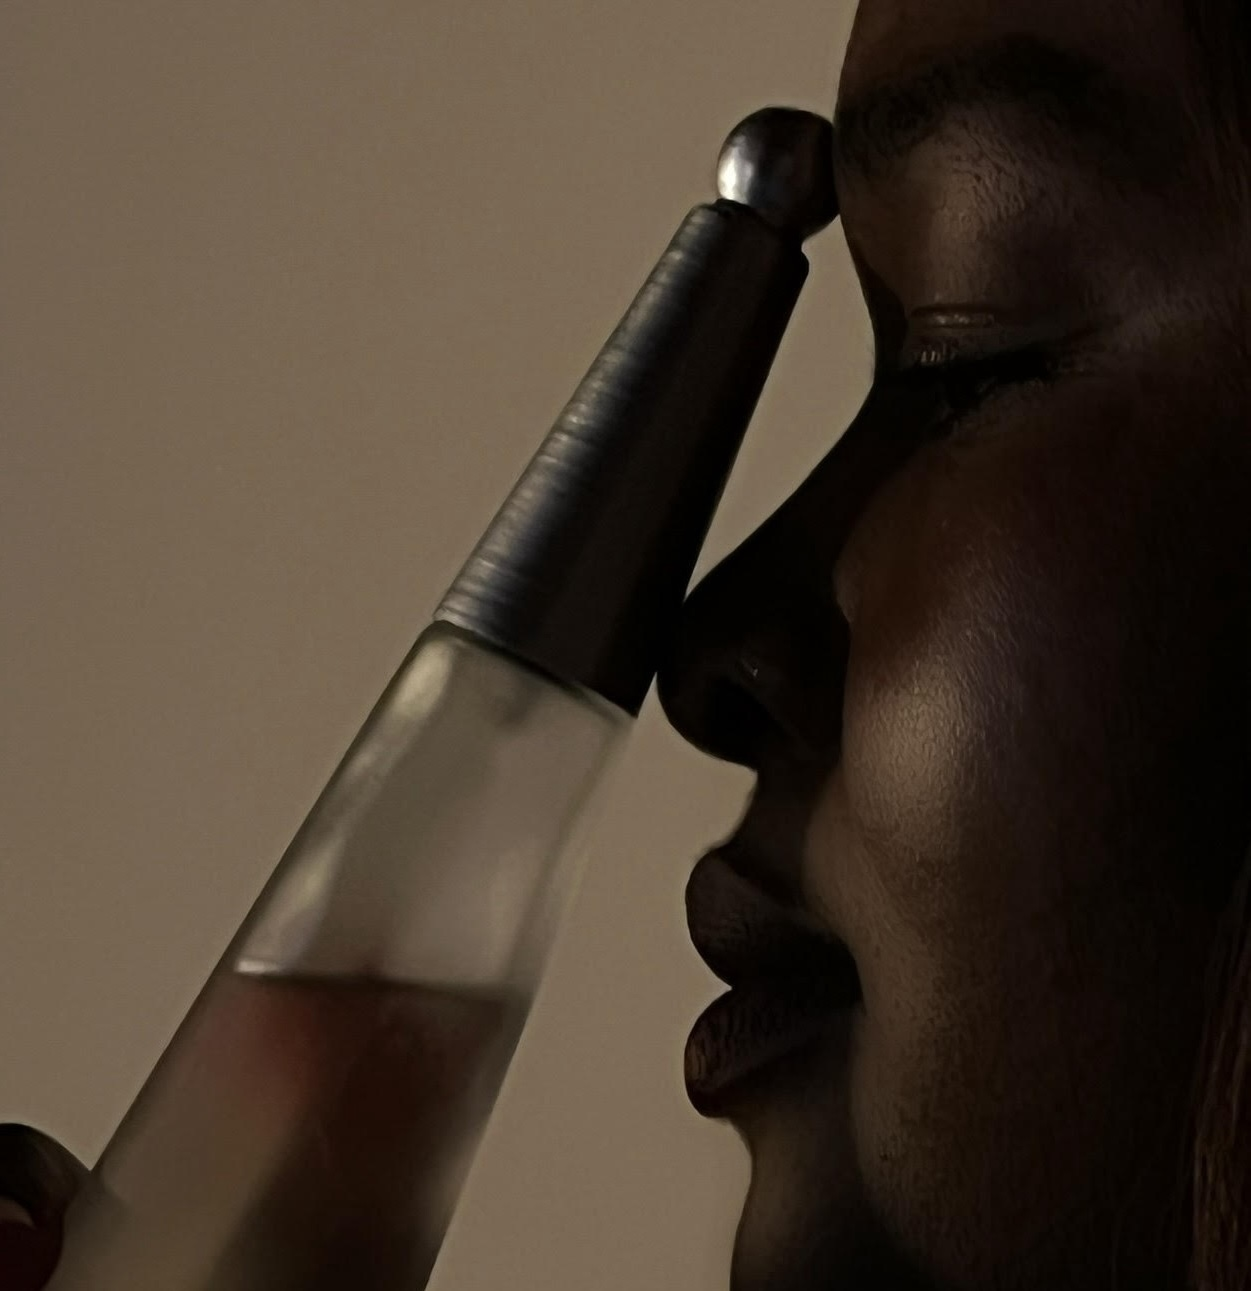
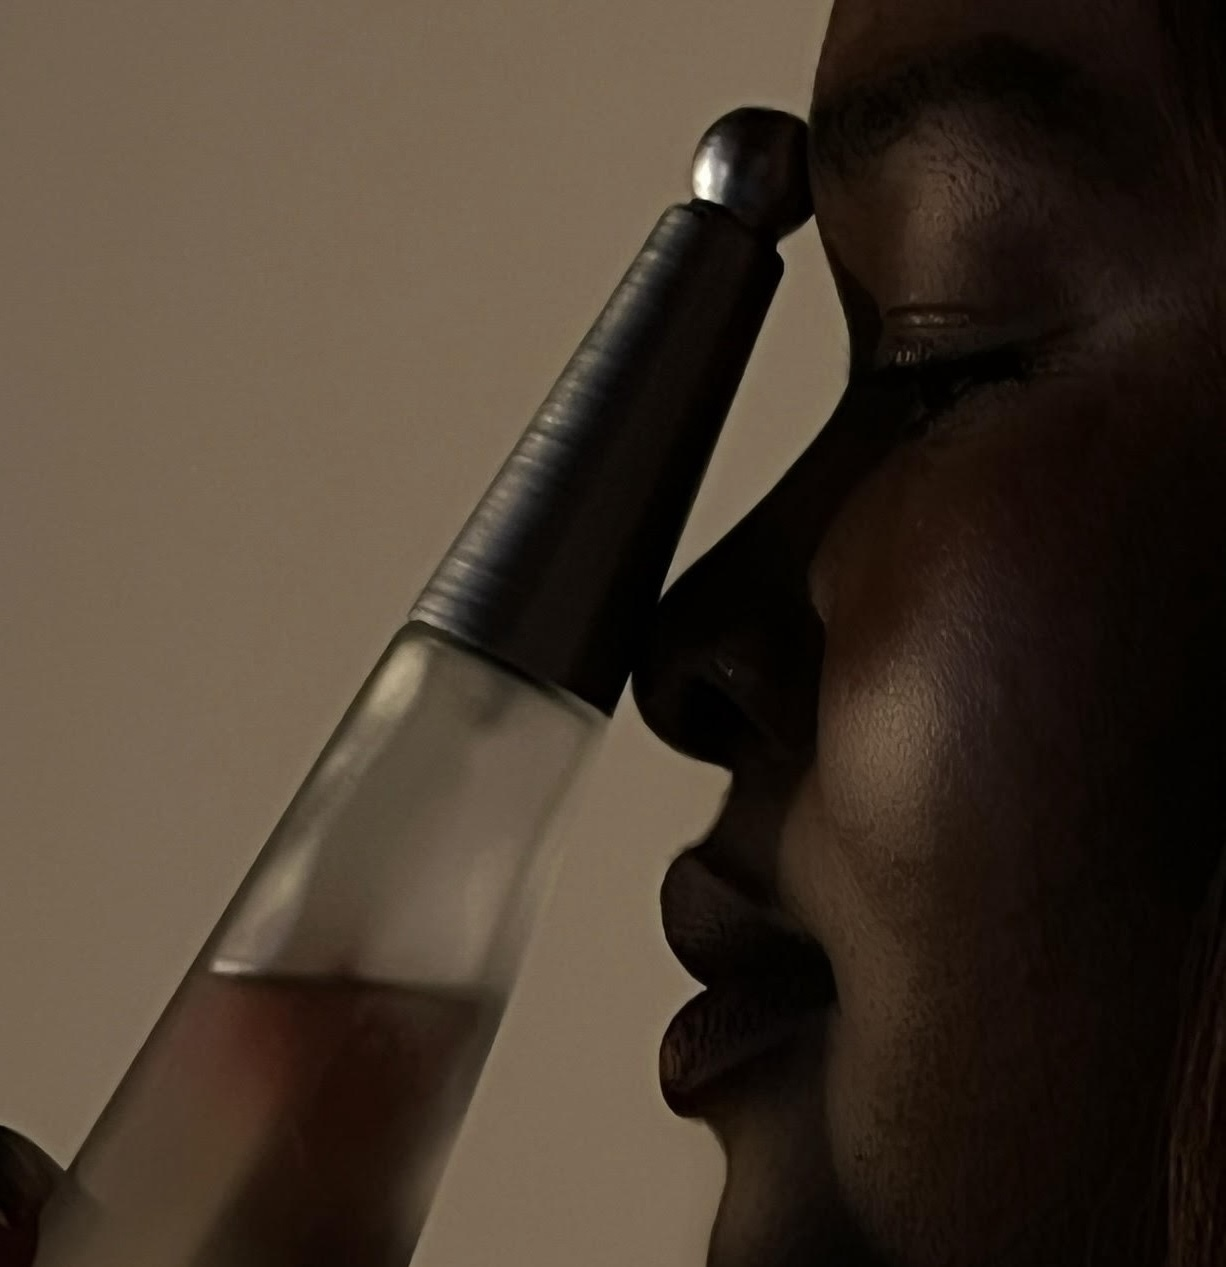
Email validation, domain typo detection, fast-click guard, per-section progress bars, spam folder note, client email in submit payload, client email in sonsultant notes.

diff --git a/quiz-app.js b/quiz-app.js
@@ -17,7 +17,64 @@ function setFrame(left, center, right) {
 }
 
 function introReady() {
-  return state.name.trim() && state.email.trim() && state.email.includes("@");
+  return state.name.trim() && /^[^\s@]+@[^\s@]+\.[^\s@]{2,}$/.test(state.email.trim());
+}
+
+const DOMAIN_TYPOS = {
+  // gmail
+  "gmial.com":"gmail.com", "gmai.com":"gmail.com", "gmal.com":"gmail.com",
+  "gamil.com":"gmail.com", "gnail.com":"gmail.com", "gmail.co":"gmail.com",
+  "gmail.cm":"gmail.com", "gmaill.com":"gmail.com", "gmali.com":"gmail.com",
+  "gmill.com":"gmail.com", "gmil.com":"gmail.com", "gmaul.com":"gmail.com",
+  "gmale.com":"gmail.com", "gemail.com":"gmail.com", "gmaik.com":"gmail.com",
+  "gmaio.com":"gmail.com", "gmaiil.com":"gmail.com", "gamial.com":"gmail.com",
+  "gimail.com":"gmail.com", "gmail.con":"gmail.com",
+  "gmail.om":"gmail.com", "gmail.vom":"gmail.com", "gmail.xom":"gmail.com",
+  "gmail.comm":"gmail.com", "gmaol.com":"gmail.com",
+  "gmqil.com":"gmail.com", "gmeil.com":"gmail.com",
+  // yahoo
+  "yahooo.com":"yahoo.com", "yaho.com":"yahoo.com", "yaoo.com":"yahoo.com",
+  "yahoo.co":"yahoo.com", "yhaoo.com":"yahoo.com", "yshoo.com":"yahoo.com",
+  "yahho.com":"yahoo.com", "yahpp.com":"yahoo.com", "yahpo.com":"yahoo.com",
+  "yahooo.com":"yahoo.com", "yhoo.com":"yahoo.com", "yahooi.com":"yahoo.com",
+  "yahoo.con":"yahoo.com", "yahoo.cm":"yahoo.com", "yahoo.om":"yahoo.com",
+  "yahoo.comm":"yahoo.com", "tahoo.com":"yahoo.com", "uahoo.com":"yahoo.com",
+  "yaboo.com":"yahoo.com", "yanoo.com":"yahoo.com", "yaho.com":"yahoo.com",
+  "yahhoo.com":"yahoo.com", "yahool.com":"yahoo.com",
+  // hotmail
+  "hotmal.com":"hotmail.com", "hotmial.com":"hotmail.com", "hotmai.com":"hotmail.com",
+  "hotmail.co":"hotmail.com", "hotamil.com":"hotmail.com", "hotmali.com":"hotmail.com",
+  "hotmaill.com":"hotmail.com", "hotmil.com":"hotmail.com", "hotmaol.com":"hotmail.com",
+  "hotmail.con":"hotmail.com", "hotmail.cm":"hotmail.com", "hotmale.com":"hotmail.com",
+  "hotmsil.com":"hotmail.com", "jotmail.com":"hotmail.com", "hitmail.com":"hotmail.com",
+  "hotail.com":"hotmail.com", "hotmaik.com":"hotmail.com",
+  // outlook
+  "outlok.com":"outlook.com", "outloo.com":"outlook.com", "outlool.com":"outlook.com",
+  "outlook.co":"outlook.com", "outllook.com":"outlook.com", "outlokk.com":"outlook.com",
+  "outloook.com":"outlook.com", "ourlook.com":"outlook.com", "oitlook.com":"outlook.com",
+  "outlook.con":"outlook.com", "outlook.cm":"outlook.com", "putlook.com":"outlook.com",
+  "outlookk.com":"outlook.com", "outllok.com":"outlook.com", "outluk.com":"outlook.com",
+  // icloud
+  "iclould.com":"icloud.com", "icloud.co":"icloud.com", "iclod.com":"icloud.com",
+  "icoud.com":"icloud.com", "icload.com":"icloud.com", "iclould.com":"icloud.com",
+  "icloud.con":"icloud.com", "icloud.cm":"icloud.com", "iclould.com":"icloud.com",
+  "iclud.com":"icloud.com", "icloudd.com":"icloud.com", "icolud.com":"icloud.com",
+  // aol
+  "aol.co":"aol.com", "aol.con":"aol.com", "aol.cm":"aol.com",
+  "aol.comm":"aol.com", "ail.com":"aol.com", "apl.com":"aol.com",
+  // protonmail
+  "protonmal.com":"protonmail.com", "protonmial.com":"protonmail.com",
+  "protonmail.con":"protonmail.com", "protonmail.co":"protonmail.com",
+  // common TLD typos for any domain
+  "me.co":"me.com",
+};
+
+function checkEmailTypo(email) {
+  const domain = email.trim().split("@")[1];
+  if (!domain) return null;
+  const suggestion = DOMAIN_TYPOS[domain.toLowerCase()];
+  if (suggestion) return email.trim().split("@")[0] + "@" + suggestion;
+  return null;
 }
 
 function render(soft) {
@@ -66,12 +123,28 @@ function renderIntro(el) {
     <label class="field-label" for="emailInput" style="margin-top:16px;">Your email</label>
     <input class="text-input" type="email" placeholder="[email redacted]" id="emailInput" value="${esc(state.email)}">
     <p class="email-note">We'll send your scent profile results here.</p>
+    <div id="emailHint"></div>
     <div class="nav">
       <span></span>
       <button class="btn-primary" id="startBtn" ${introReady() ? "" : "disabled"}>Begin</button>
     </div>
   `;
-  const updateStart = () => { $("startBtn").disabled = !introReady(); };
+  const updateStart = () => {
+    $("startBtn").disabled = !introReady();
+    const hint = $("emailHint");
+    const suggestion = checkEmailTypo(state.email);
+    if (suggestion) {
+      hint.innerHTML = '<p class="email-typo">Did you mean <a href="#" id="fixEmail">' + esc(suggestion) + '</a>?</p>';
+      $("fixEmail").addEventListener("click", e => {
+        e.preventDefault();
+        state.email = suggestion;
+        $("emailInput").value = suggestion;
+        updateStart();
+      });
+    } else {
+      hint.innerHTML = '';
+    }
+  };
   $("nameInput").addEventListener("input", e => { state.name = e.target.value; updateStart(); });
   $("emailInput").addEventListener("input", e => { state.email = e.target.value; updateStart(); });
   $("emailInput").addEventListener("keydown", e => {
@@ -85,11 +158,14 @@ function renderIntro(el) {
 
 function optionList(opts, getSel, onPick) {
   const box = $("options");
+  let picked = false;
   opts.forEach(opt => {
     const btn = document.createElement("button");
     btn.className = "option-btn" + (getSel() === opt ? " selected" : "");
     btn.innerHTML = `<span class="mk"></span>${esc(opt)}`;
     btn.addEventListener("click", () => {
+      if (picked) return;
+      picked = true;
       box.querySelectorAll(".option-btn").forEach(b => b.classList.remove("selected"));
       btn.classList.add("selected");
       setTimeout(() => onPick(opt), 320);
@@ -101,7 +177,7 @@ function optionList(opts, getSel, onPick) {
 function renderVibes(el) {
   const q = VIBES_QUESTIONS[state.idx];
   const pct = ((state.idx + 1) / VIBES_QUESTIONS.length) * 100;
-  setFrame("Top Note", "Part I · Vibes", `${String(state.idx+1).padStart(2,"0")} / ${String(VIBES_QUESTIONS.length).padStart(2,"0")}`);
+  setFrame("Top Note", "Part I · Vibes", "");
   el.innerHTML = `
     <div class="progress-head">
       <span class="progress-text">Vibes Diagnostic</span>
@@ -147,8 +223,7 @@ function renderInterstitial(el) {
 function renderScent(el) {
   const q = SCENT_QUESTIONS[state.idx];
   const pct = ((state.idx + 1) / SCENT_QUESTIONS.length) * 100;
-  const answered = Object.keys(state.scent).length;
-  setFrame("Top Note", "Part II · Scent Profile", `${String(state.idx+1).padStart(2,"0")} / ${SCENT_QUESTIONS.length}`);
+  setFrame("Top Note", "Part II · Scent Profile", "");
   el.innerHTML = `
     <div class="progress-head">
       <span class="progress-text">Scent Profile</span>
@@ -160,7 +235,7 @@ function renderScent(el) {
     <div id="options"></div>
     <div class="nav">
       <button class="btn-back" id="backBtn">&larr; Back</button>
-      <span class="answered-count">${answered} / ${SCENT_QUESTIONS.length} answered</span>
+      <span class="answered-count">${state.idx+1} / ${SCENT_QUESTIONS.length}</span>
     </div>
   `;
   const opts = q.spectrum ? q.spectrum.map(s => s.label) : SCENT_OPTIONS;
@@ -198,8 +273,7 @@ function renderImpressionsInterstitial(el) {
 function renderImpressions(el) {
   const q = IMPRESSION_QUESTIONS[state.idx];
   const pct = ((state.idx + 1) / IMPRESSION_QUESTIONS.length) * 100;
-  const answered = Object.keys(state.impressions).length;
-  setFrame("Top Note", "Part III · Impressions", `${String(state.idx+1).padStart(2,"0")} / ${IMPRESSION_QUESTIONS.length}`);
+  setFrame("Top Note", "Part III · Impressions", "");
   el.innerHTML = `
     <div class="progress-head">
       <span class="progress-text">Impressions</span>
@@ -211,15 +285,18 @@ function renderImpressions(el) {
     <div class="img-grid" id="imgGrid"></div>
     <div class="nav">
       <button class="btn-back" id="backBtn">&larr; Back</button>
-      <span class="answered-count">${answered} / ${IMPRESSION_QUESTIONS.length} answered</span>
+      <span class="answered-count">${state.idx+1} / ${IMPRESSION_QUESTIONS.length}</span>
     </div>
   `;
   const grid = $("imgGrid");
+  let picked = false;
   q.options.forEach((opt, i) => {
     const btn = document.createElement("button");
     btn.className = "img-option" + (state.impressions[q.id] === i ? " selected" : "");
     btn.innerHTML = `<img src="${opt.img}" alt="Option ${i+1}">`;
     btn.addEventListener("click", () => {
+      if (picked) return;
+      picked = true;
       grid.querySelectorAll(".img-option").forEach(b => b.classList.remove("selected"));
       btn.classList.add("selected");
       state.impressions[q.id] = i;
@@ -259,15 +336,14 @@ function renderChemistryInterstitial(el) {
 function renderChemistry(el) {
   const q = CHEMISTRY_QUESTIONS[state.idx];
   const pct = ((state.idx + 1) / CHEMISTRY_QUESTIONS.length) * 100;
-  const answered = Object.keys(state.chemistry).filter(k => state.chemistry[k] != null && state.chemistry[k] !== "").length;
-  setFrame("Top Note", "Part IV · Chemistry", `${String(state.idx+1).padStart(2,"0")} / ${CHEMISTRY_QUESTIONS.length}`);
+  setFrame("Top Note", "Part IV · Chemistry", "");
   const inputHtml = q.type === "text"
     ? '<textarea class="text-area-input" id="chemText" placeholder="Describe any sensitivities or type \'None\'" rows="4">' + esc(state.chemistry[q.id] || "") + '</textarea>'
       + '<div class="nav"><button class="btn-back" id="backBtn">&larr; Back</button>'
       + '<button class="btn-primary" id="nextBtn">Finish</button></div>'
     : '<div id="options"></div>'
       + '<div class="nav"><button class="btn-back" id="backBtn">&larr; Back</button>'
-      + '<span class="answered-count">' + answered + ' / ' + CHEMISTRY_QUESTIONS.length + ' answered</span></div>';
+      + '<span class="answered-count">' + (state.idx+1) + ' / ' + CHEMISTRY_QUESTIONS.length + '</span></div>';
   el.innerHTML = `
     <div class="progress-head">
       <span class="progress-text">Chemistry</span>
@@ -375,7 +451,7 @@ async function submitResults(results) {
       body: JSON.stringify({ name: state.name, email: state.email, vibes: state.vibes, results, leather: state.scent.s46, impressions: calcImpressions(state.impressions), chemistry: state.chemistry }) });
   } catch (e) { /* no-cors: opaque, assume ok */ }
   statusMsg.className = "status-msg success";
-  statusMsg.textContent = "Results sent to " + state.email + " \u2014 check your inbox.";
+  statusMsg.innerHTML = "Results sent to " + esc(state.email) + " \u2014 check your inbox.<br><span style='font-size:14px;color:var(--ink-dim)'>If you don\u2019t see it, check your spam or junk folder.</span>";
 }
 
 render();

diff --git a/quiz.css b/quiz.css
@@ -420,6 +420,19 @@ h1 {
   color: var(--ink-dim);
   margin-top: 10px;
 }
+.email-typo {
+  font-family: var(--body);
+  font-size: 15px;
+  font-style: italic;
+  color: var(--red-deep);
+  margin-top: 8px;
+}
+.email-typo a {
+  color: var(--ink);
+  font-weight: 600;
+  text-decoration: underline;
+  text-underline-offset: 2px;
+}
 .text-area-input {
   width: 100%;
   padding: 14px;